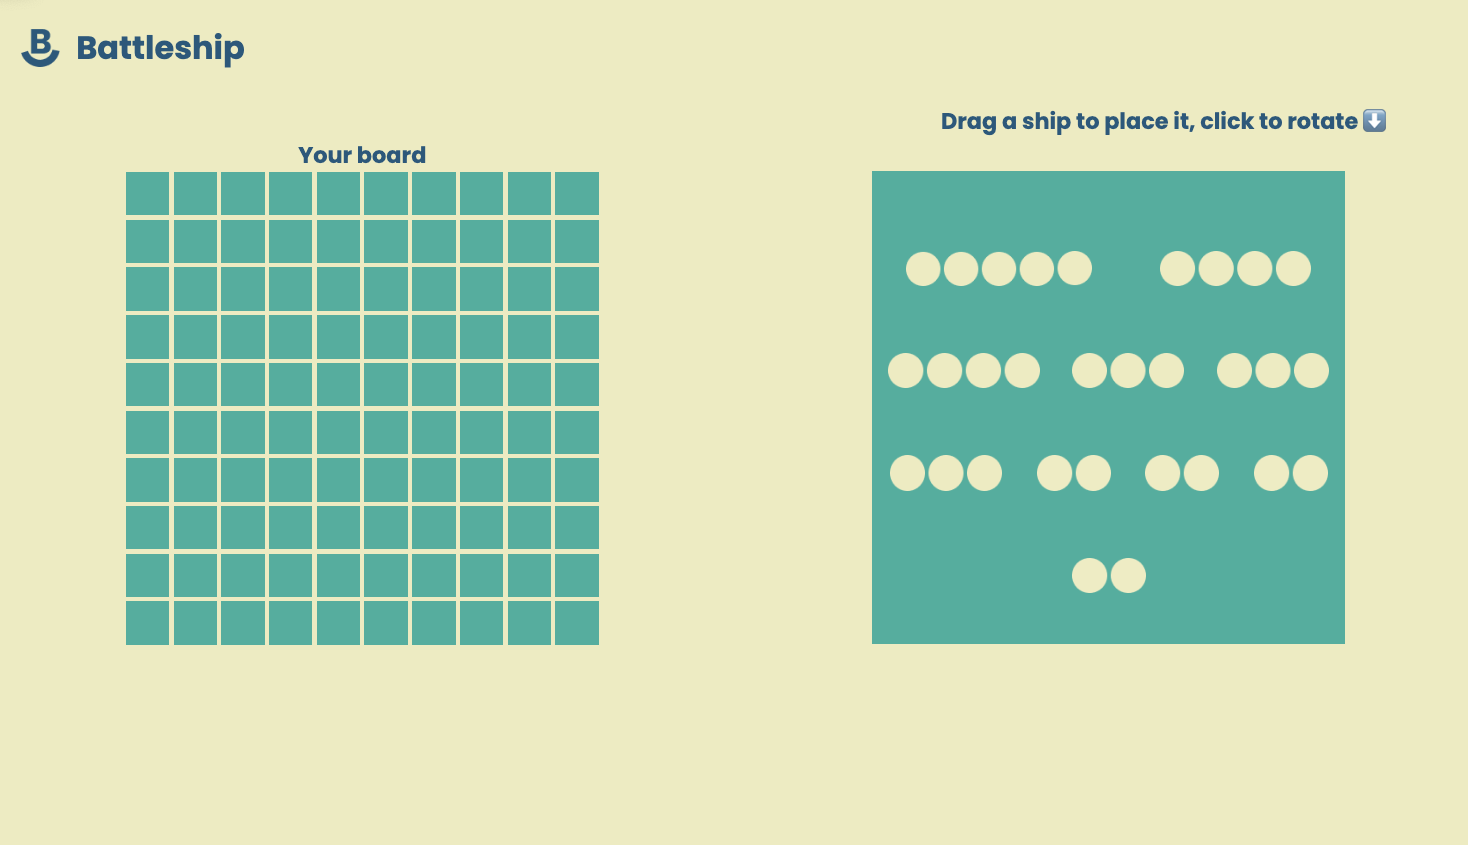
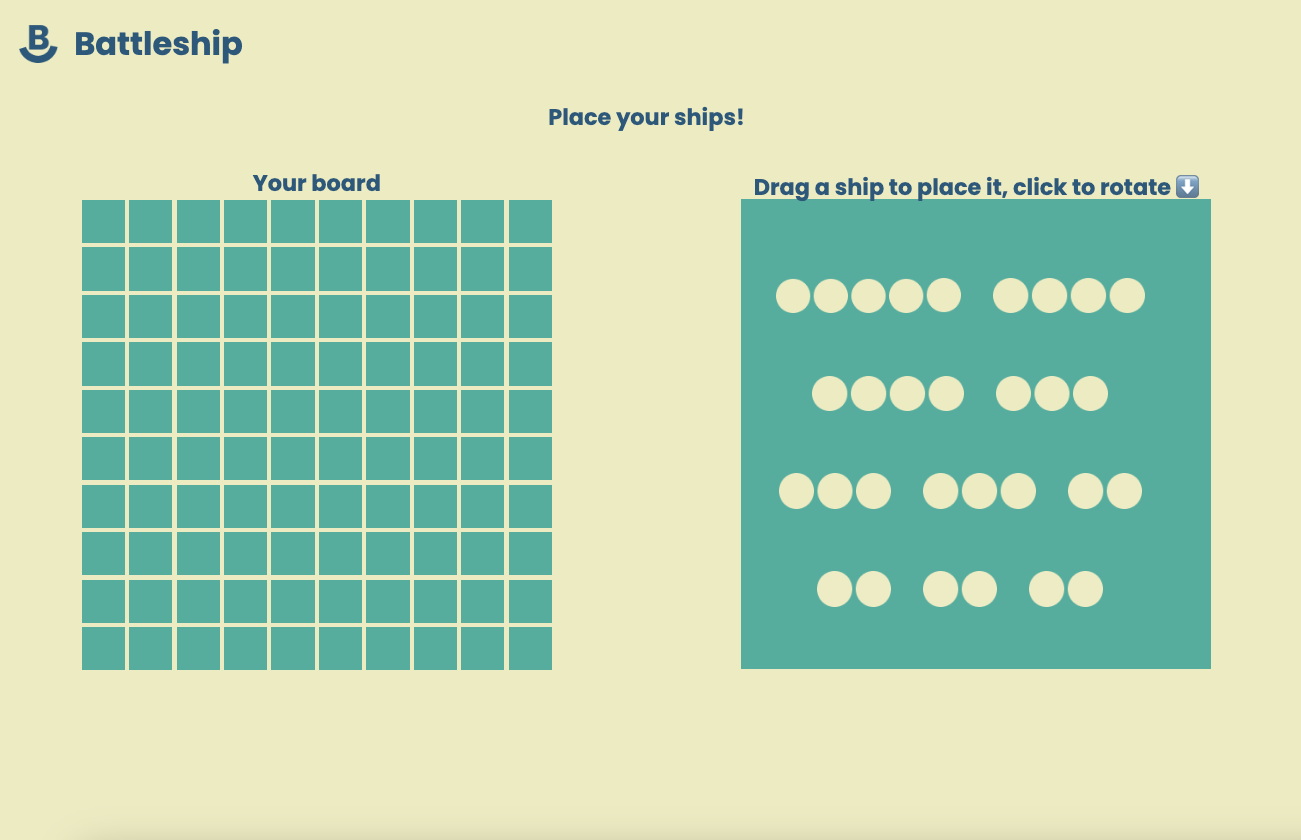
corrects the readme

diff --git a/style/style.css b/style/style.css
@@ -39,7 +39,7 @@ header h1 {
 
 header h2 {
   font-size: 1.4rem;
-  margin: 0 6rem;
+  margin: 2rem 10rem;
 }
 
 #logo {
@@ -56,14 +56,19 @@ header h2 {
   display: flex;
   flex-direction: row;
   flex-wrap: wrap;
-  justify-content: space-around;
-  padding-top: 4rem;
+  justify-content: center;
+  padding-top: 1rem;
   margin-top: 2rem;
 }
 
 #ships-to-drag img {
   height: 2.2rem;
-  margin: 1rem;
+  margin-right: 2rem;
+}
+
+#ships-to-drag h2 {
+  margin-top: -2.8rem;
+  margin-bottom: 0;
 }
 
 .over {

diff --git a/index.html b/index.html
@@ -255,6 +255,7 @@
         </div>
         <div id="ships-to-drag-container">
           <div id="ships-to-drag">
+            <h2>Drag a ship to place it, click to rotate ⬇</h2>
             <img draggable="true" class="5" src="images/Frame 1.png" />
             <img draggable="true" class="4" src="images/Frame 2.png" />
             <img draggable="true" class="4" src="images/Frame 2.png" />

diff --git a/script.js b/script.js
@@ -122,8 +122,7 @@ function renderMessage() {
   } else if (winner) {
     messageEl.innerHTML = `${winner} won!`;
   } else {
-    messageEl.innerHTML = `Drag a ship to place it, click to rotate ⬇`;
-    messageEl.style.textAlign = "right";
+    messageEl.innerHTML = `Place your ships!`;
   }
 }
 
